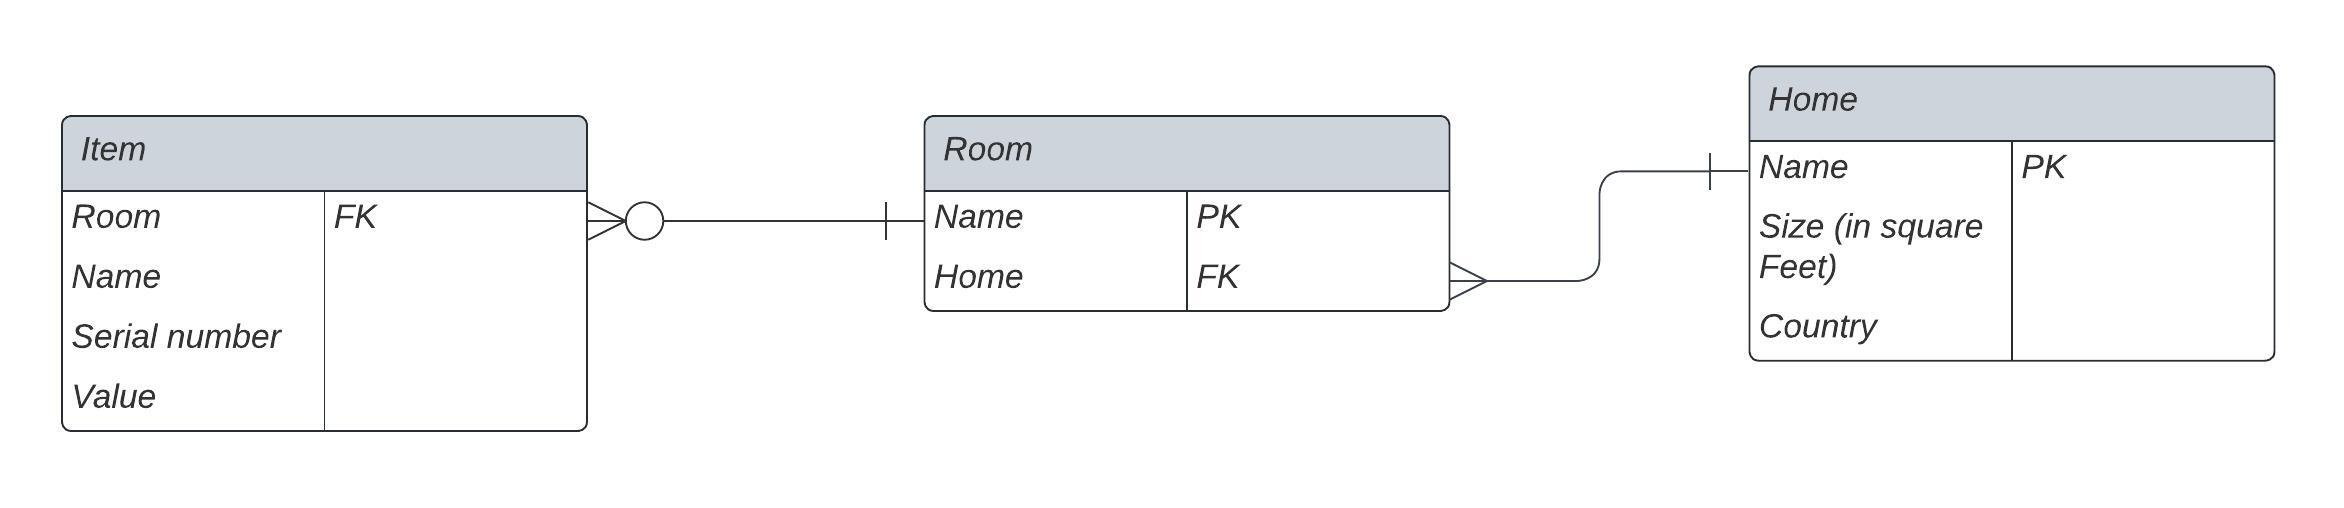
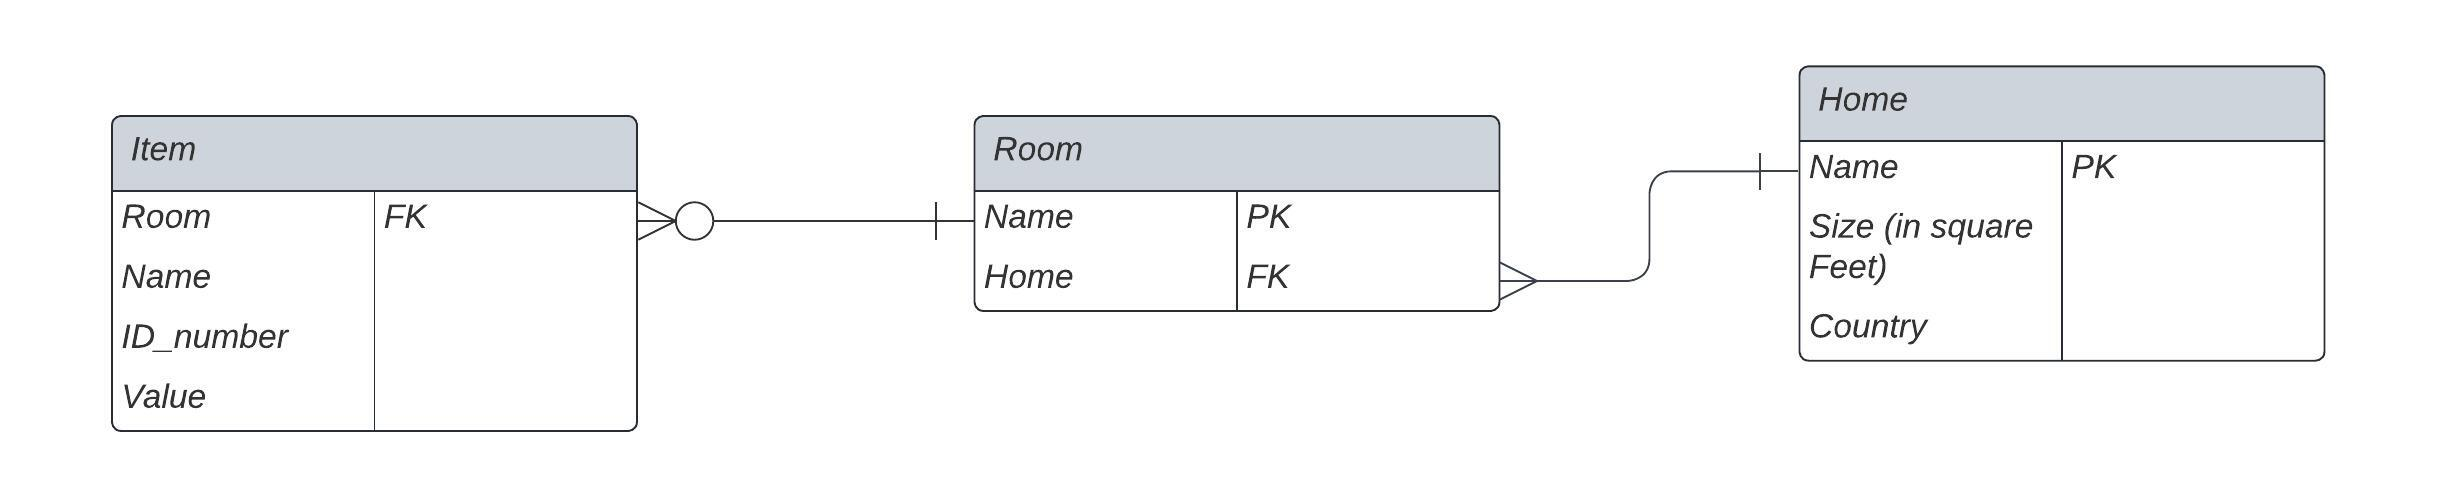
updated instructions

diff --git a/intro-to-databases/04-add-data/assignment.md b/intro-to-databases/04-add-data/assignment.md
@@ -22,7 +22,7 @@ tabs:
 difficulty: basic
 timelimit: 600
 ---
-To understand how we organize databases, it is helpful to understand the definition of a relational database, a relational database management system, and SQL. For an overview, [check out this helpful article](https://www.codecademy.com/article/what-is-rdbms-sql)
+To understand how we organize databases, it is helpful to understand the definition of a relational database, a relational database management system, and SQL. For an overview, [check out this helpful article.](https://www.codecademy.com/article/what-is-rdbms-sql)
 
 In this step, you will be challenged to complete a task, and we will provide you with guidance to help you along!
 
@@ -36,6 +36,20 @@ In this diagram:
 * Each room has a name, which is the primary key for the room entity. Each room is also inside a home, and home is a foreign key because it relates to the Home entity. Each room relates to 0 or more Item entities, and each room relates to one Home entity.
 * Each home has a name, which is the primary key for the home entity. Each home has a size and a country in which it is located. Each home relates to many room entities.
 
-For help understanding the meaning of Database diagrams, [check out this article.](https://www.lucidchart.com/pages/ER-diagram-symbols-and-meaning)
+For help understanding the meaning of database diagrams, [check out this article.](https://www.lucidchart.com/pages/ER-diagram-symbols-and-meaning)
 
-Now that you are familiar with the database you will build,
+Now that you are familiar with the database you will build, you are ready to start creating tables.
+
+First, create the table for `Home` with the following command
+
+
+Finally, create the table for `Item`.
+```sql
+CREATE TABLE Item(
+  Room varchar(255) NOT NULL,
+  Name varchar(255),
+  ID_number int NOT NULL,
+  Value DOUBLE
+  FOREIGN KEY (Room) REFERENCES Room(Name)
+);
+```
